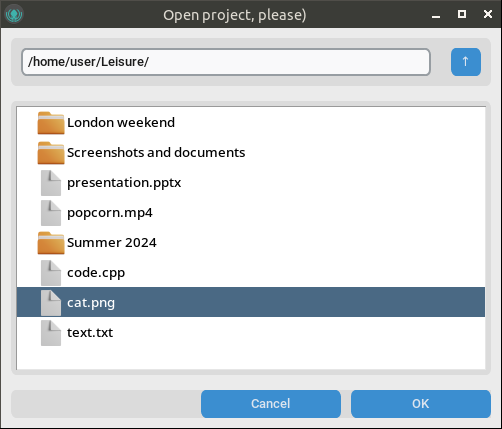
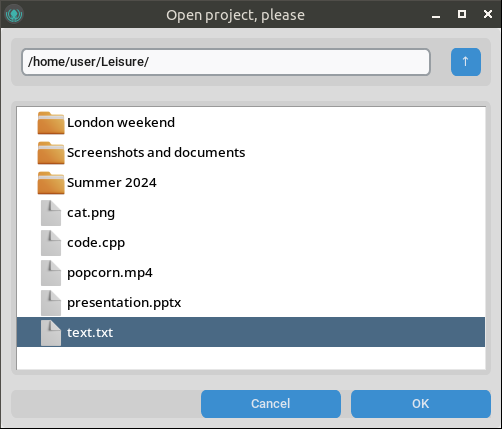
Version 0.2 - add hidden_files params, simplifed settings, bug fixed, everything is placed in CTkFrame

diff --git a/CTkFileDialog/ctk_file_dialog.py b/CTkFileDialog/ctk_file_dialog.py
@@ -9,20 +9,21 @@ PATH = os.path.dirname(os.path.realpath(__file__))
 class CTkFileDialog(ctk.CTkToplevel):
     def __init__(
         self,
-        parent,
         width=500,
         height=400,
+        hidden_files=False,
         initialdir=".",
         title=None,
         save=False,
         save_extension="",
     ):
-        super().__init__(parent)
+        super().__init__()
         self.geometry(f"{width}x{height}")
 
         self.title(
             "Save file" if save else "Open file"
         ) if title is None else self.title(title)
+        self.hidden_files = hidden_files
         self.save_mode = save
         self.save_extension = save_extension
 
@@ -32,7 +33,10 @@ class CTkFileDialog(ctk.CTkToplevel):
         self.folder_image = tk.PhotoImage(file=os.path.join(PATH, "folder.png"))
         self.file_image = tk.PhotoImage(file=os.path.join(PATH, "file.png"))
 
-        self.path_frame = ctk.CTkFrame(self)
+        self.frame = ctk.CTkFrame(self)
+        self.frame.pack(fill=ctk.BOTH, expand=True)
+
+        self.path_frame = ctk.CTkFrame(self.frame)
         self.path_frame.pack(fill=ctk.X, padx=10, pady=10)
 
         self.initialdir = ctk.StringVar(
@@ -53,7 +57,7 @@ class CTkFileDialog(ctk.CTkToplevel):
             )
             extension_btn.pack(side=ctk.RIGHT, padx=10, pady=10)
 
-        btn_frame = ctk.CTkFrame(self)
+        btn_frame = ctk.CTkFrame(self.frame)
         btn_frame.pack(side=ctk.BOTTOM, fill=ctk.X, padx=10, pady=10)
 
         ok_btn = ctk.CTkButton(btn_frame, text="OK")
@@ -70,11 +74,11 @@ class CTkFileDialog(ctk.CTkToplevel):
 
         if self.save_mode:
             self.save_entry = ctk.CTkEntry(
-                self, placeholder_text="Enter name for save..."
+                self.frame, placeholder_text="Enter name for save..."
             )
             self.save_entry.pack(side=ctk.BOTTOM, fill=ctk.X, padx=10)
 
-        self.tree_frame = ctk.CTkFrame(self)
+        self.tree_frame = ctk.CTkFrame(self.frame)
         self.tree_frame.pack(fill=ctk.BOTH, expand=True, padx=10, pady=5)
 
         style = ttk.Style()
@@ -86,6 +90,7 @@ class CTkFileDialog(ctk.CTkToplevel):
 
         self._populate_file_list()
 
+        self.wait_visibility()
         self.grab_set()
         self.wait_window()
 
@@ -95,11 +100,13 @@ class CTkFileDialog(ctk.CTkToplevel):
         try:
             for item in self.tree.get_children():
                 self.tree.delete(item)
-            for item in os.listdir(self.initialdir.get()):
-                if os.path.isdir(os.path.join(self.initialdir.get(), item)):
-                    self.tree.insert("", tk.END, text=item, image=self.folder_image)
-                else:
-                    self.tree.insert("", tk.END, text=item, image=self.file_image)
+            items = sorted(os.listdir(self.initialdir.get()))
+            for item in items:
+                if not item.startswith(".") or self.hidden_files:
+                    if os.path.isdir(os.path.join(self.initialdir.get(), item)):
+                        self.tree.insert("", tk.END, text=item, image=self.folder_image)
+                    else:
+                        self.tree.insert("", tk.END, text=item, image=self.file_image)
         except Exception:
             pass
 
@@ -134,3 +141,8 @@ class CTkFileDialog(ctk.CTkToplevel):
         current_path = os.path.normpath(self.initialdir.get())
         self.initialdir.set(os.path.join(os.path.dirname(current_path), ""))
         self._populate_file_list()
+
+
+if __name__ == "__main__":
+    app = CTkFileDialog()
+    app.mainloop()

diff --git a/example.py b/example.py
@@ -3,14 +3,14 @@ from CTkFileDialog import CTkFileDialog
 
 
 def open_dialog():
-    dialog = CTkFileDialog(root, title="Open project, please)", save=False)
+    dialog = CTkFileDialog(title="Open project, please", save=False)
     if dialog.path:
         print(dialog.path)
 
 
 def save_dialog():
     dialog = CTkFileDialog(
-        root, title="Save project, please)", save=True, save_extension=".txt"
+        title="Save project, please", save=True, save_extension=".txt"
     )
     if dialog.path:
         print(dialog.path)

diff --git a/CTkFileDialog/__init__.py b/CTkFileDialog/__init__.py
@@ -4,6 +4,6 @@ Author: limafresh
 Homepage: https://github.com/limafresh/CTkFileDialog
 """
 
-__version__ = "0.1.3"
+__version__ = "0.2"
 
 from .ctk_file_dialog import CTkFileDialog as CTkFileDialog

diff --git a/README.md b/README.md
@@ -25,9 +25,9 @@ if dialog.path:
 ## Arguments
 | Argument | Description |
 | ---------------- | ------------ |
-| **master** | master, required |
 | **width** | dialog window width |
 | **height** | dialog window height |
+| **hidden_files** | False (by default) or True |
 | **initialdir** | initial dir |
 | **title** | dialog window title |
 | **save** | `save=False` if open file (by default), `save=True` if save file |
